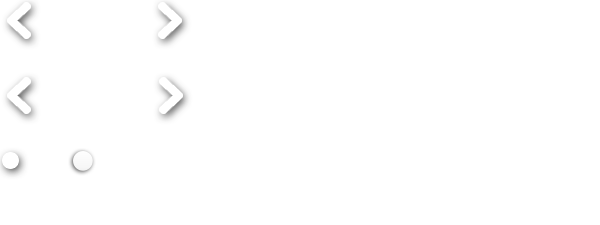
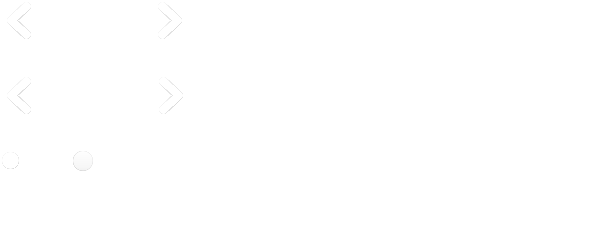
-slider, content

diff --git a/wp-content/plugins/LayerSlider/skins/fullwidth/skin.css b/wp-content/plugins/LayerSlider/skins/fullwidth/skin.css
@@ -87,8 +87,8 @@
 
 .ls-fullwidth .ls-nav-prev,
 .ls-fullwidth .ls-nav-next {
-	width: 40px;
-	height: 40px;
+	width: 50px;
+	height: 50px;
 	z-index: 10000;
 	top: 50%;
 	margin-top: -20px;	

diff --git a/wp-content/themes/atlantes/assets/less/core.less b/wp-content/themes/atlantes/assets/less/core.less
@@ -406,7 +406,7 @@
 	.column ul {
 		clear: both;
 		li {
-			font-size: 85%;
+			font-size: 95%;
 		}
 	}
 }
